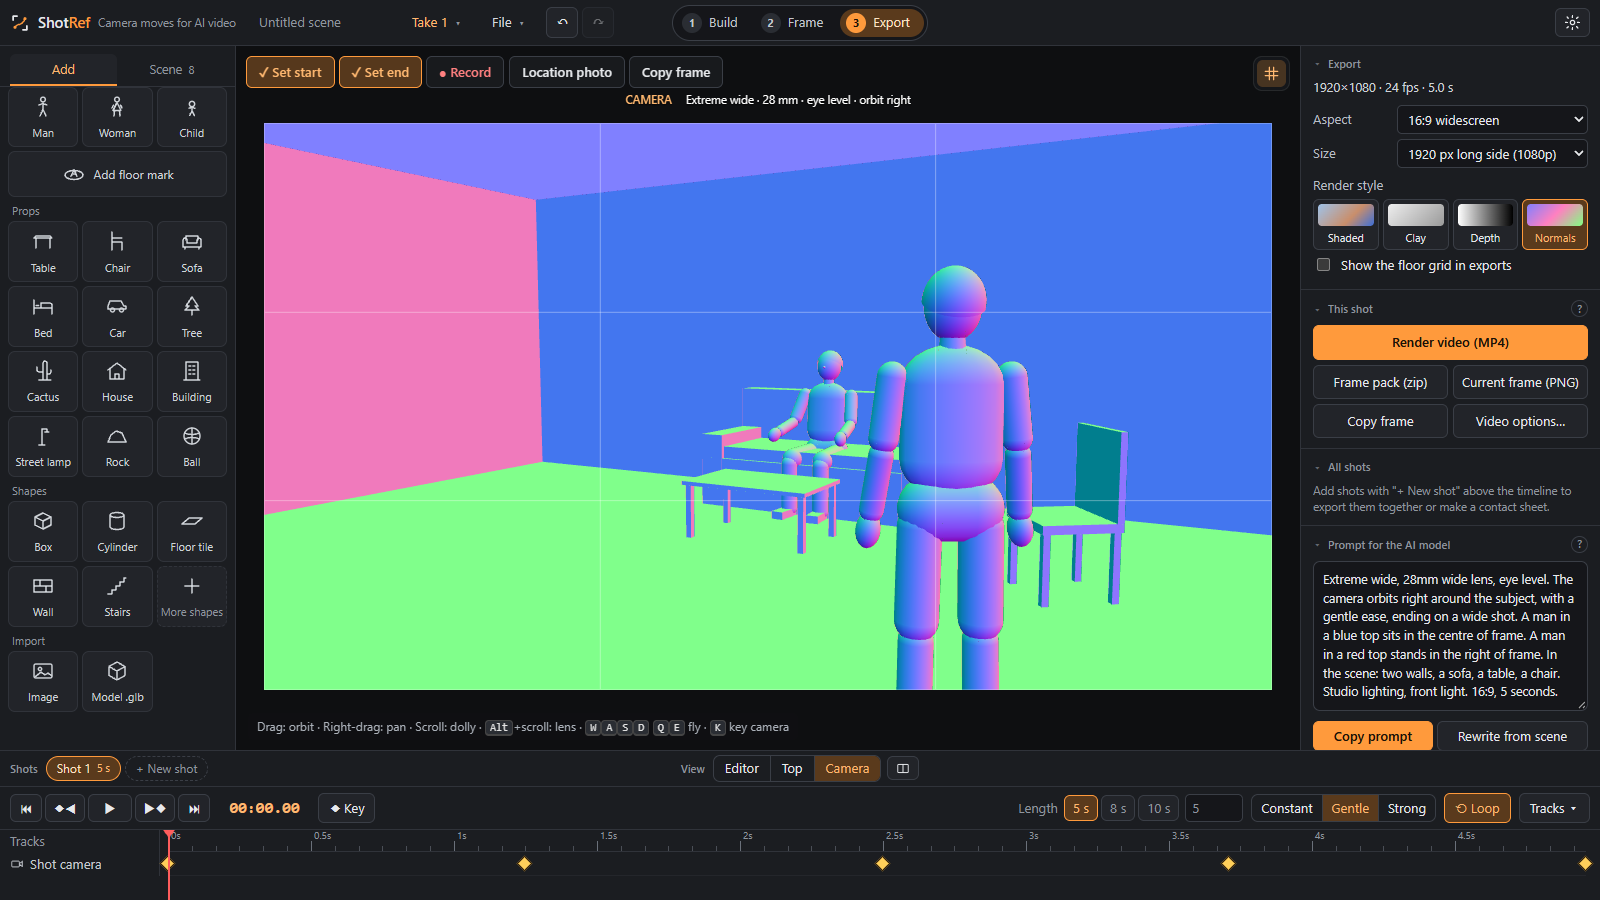
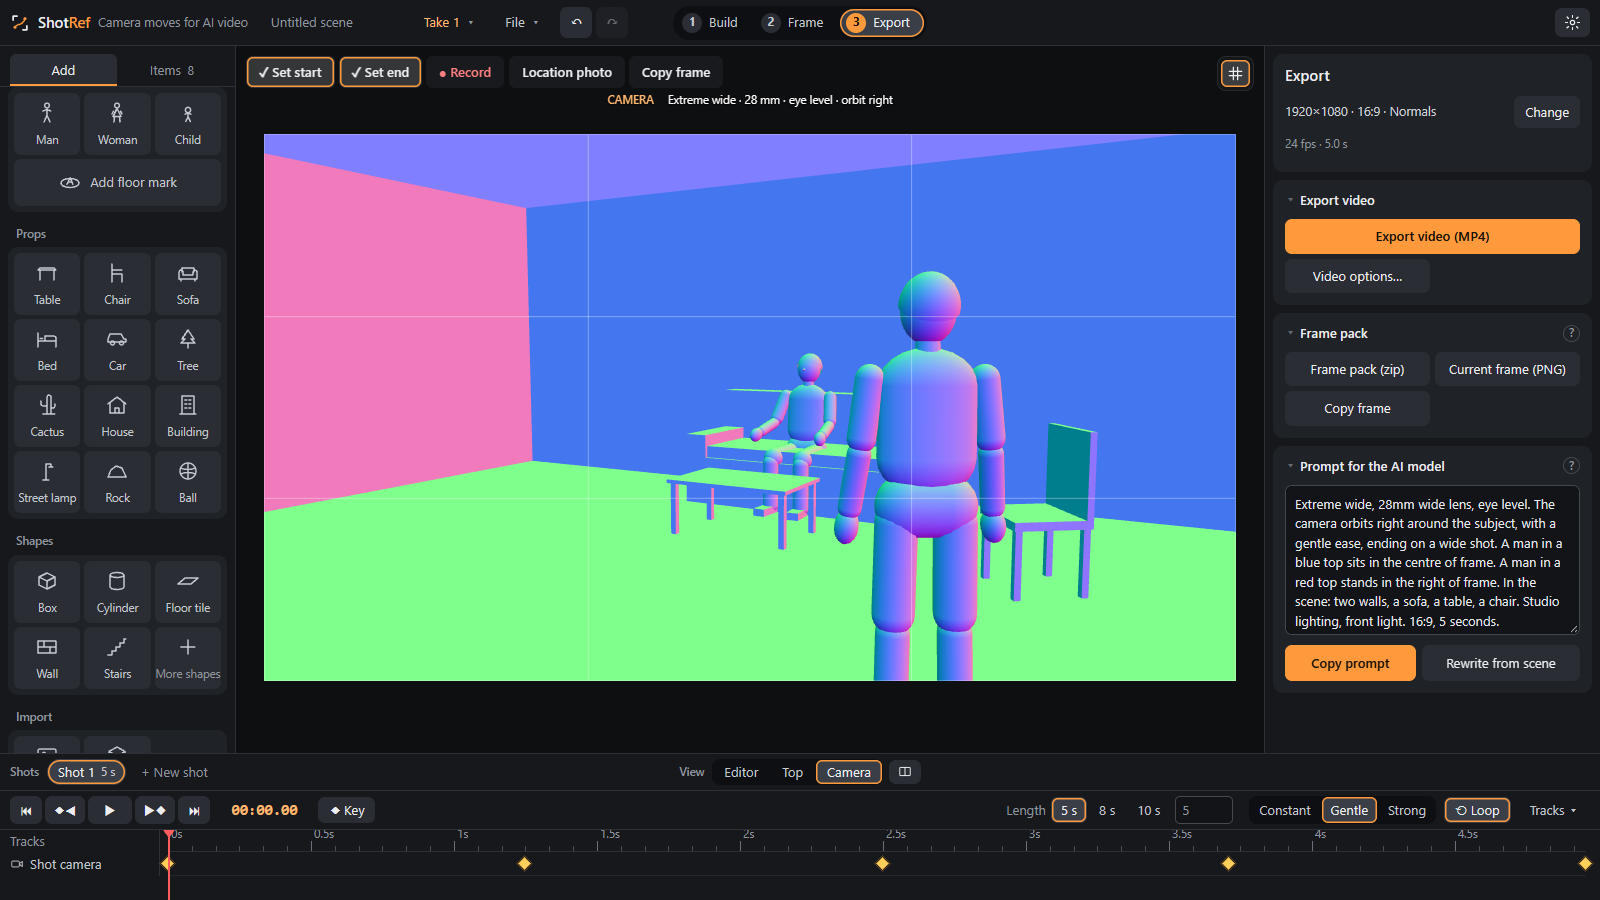
release: 1.6.0 (UI refresh, picture tiles, skies, drag and drop); README screenshots, design rules

diff --git a/docs/RELEASE-NOTES-1.6.0.md b/docs/RELEASE-NOTES-1.6.0.md
@@ -1,0 +1,23 @@
+## ShotRef 1.6.0
+
+- **A calmer, clearer screen.** Each section of the settings panel sits on its own card with a clear heading, the colours have more depth, and a chosen option always looks the same: an orange outline. The settings panel is a little wider.
+- **Less on screen, nothing lost.** Panels show what you use most. The sun panel shows only the sun, Simple mode shows three sun controls, and rarely used sections (Animation, Attach, Save as set, Mount) start folded unless they're in use. Every control is still there.
+- **Picture tiles.** Scene presets, cloud cover and "Light the shot from" are pictures, so you can see the look before you pick it.
+- **Shorter labels, one name for each thing.** For example "Aim camera at this", "Mount camera on this", "Clear move" and "Export video (MP4)".
+- **Export panel in workflow order.** A one-line summary of the format (size, aspect, style) with **Change**, then Export video, Frame pack and the prompt.
+- **Skies with clouds.** Pick the cover (Clear to Overcast), the look and how fast they drift, or shuffle them. Clouds soften the sun's light and shadows, and the prompt names the sky.
+- **Drag and drop.** Drag people and props from the Add panel straight onto any view.
+
+If you have 1.3.0 or newer installed, ShotRef offers this update by itself (or use **Help, Check for updates…**). On 1.2.0 or older, install this version by hand once.
+
+### Download
+
+| You want | File |
+|---|---|
+| Windows app with installer (updates itself) | `ShotRef-Setup-1.6.0.exe` |
+| Windows app, no install | `ShotRef-1.6.0-portable.exe` |
+| Any computer with Chrome or Edge | `ShotRef.html` |
+
+The Windows builds are not code-signed yet, so SmartScreen may say "Windows protected your PC". Click **More info**, then **Run anyway**.
+
+`latest.yml` and the `.blockmap` file are what the in-app updater reads. You can ignore them.
